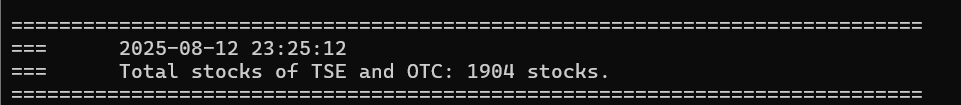
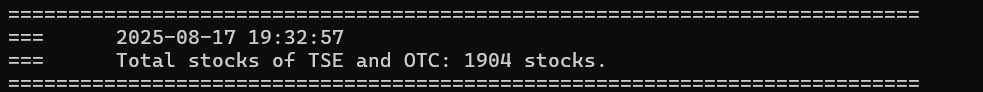
20250815 update

diff --git a/index.html b/index.html
@@ -67,7 +67,7 @@
 		</td></tr>
 		<tr><td align="center">
 		<picture>
-		  <img src="./analysis/2025-8-12.png" style="max-width:100%;height:auto;" alt="">
+		  <img src="./analysis/stocks.png" style="max-width:100%;height:auto;" alt="">
 		</picture>
 		</td></tr>
 		<tr><td align="center">
